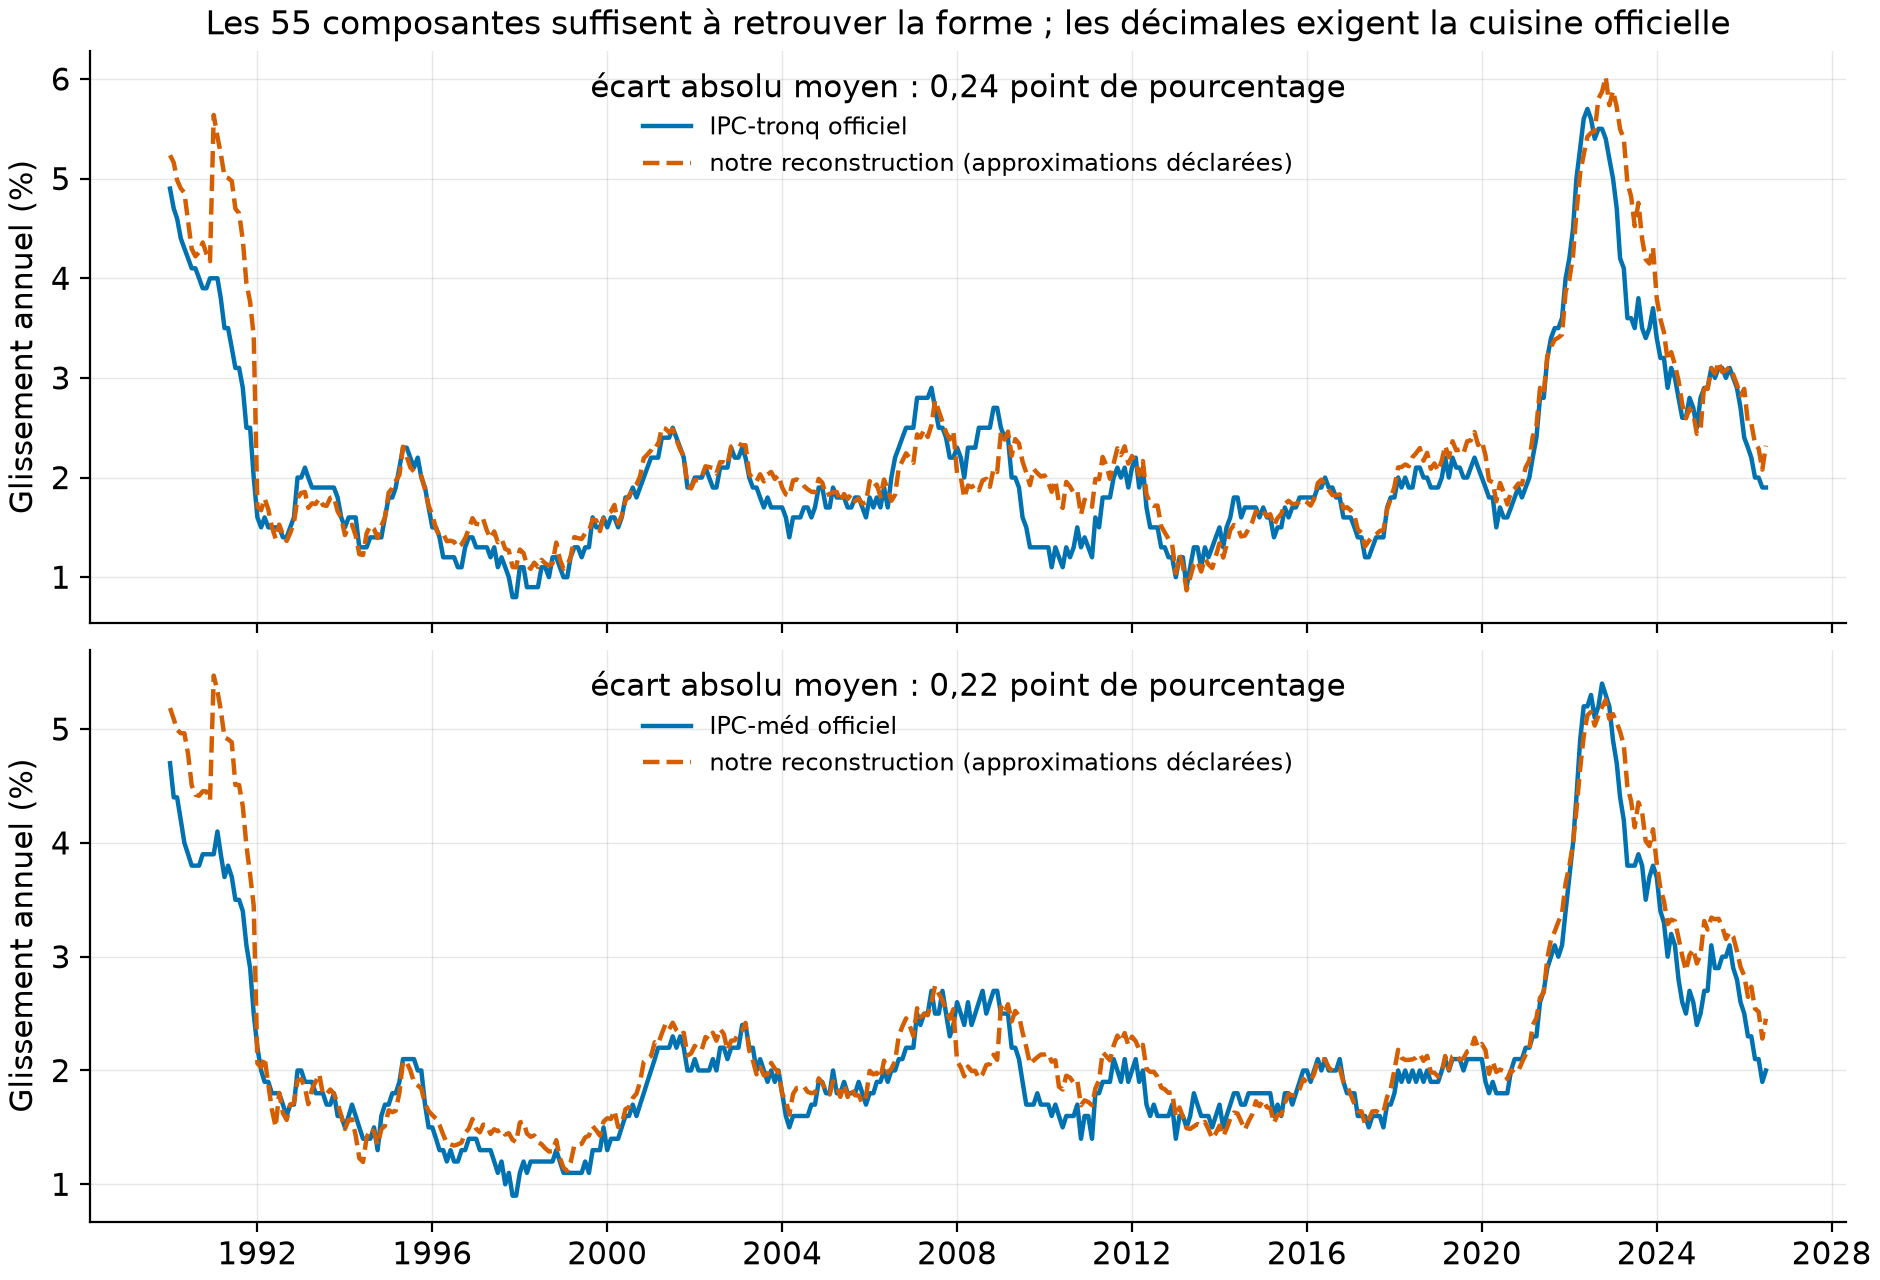
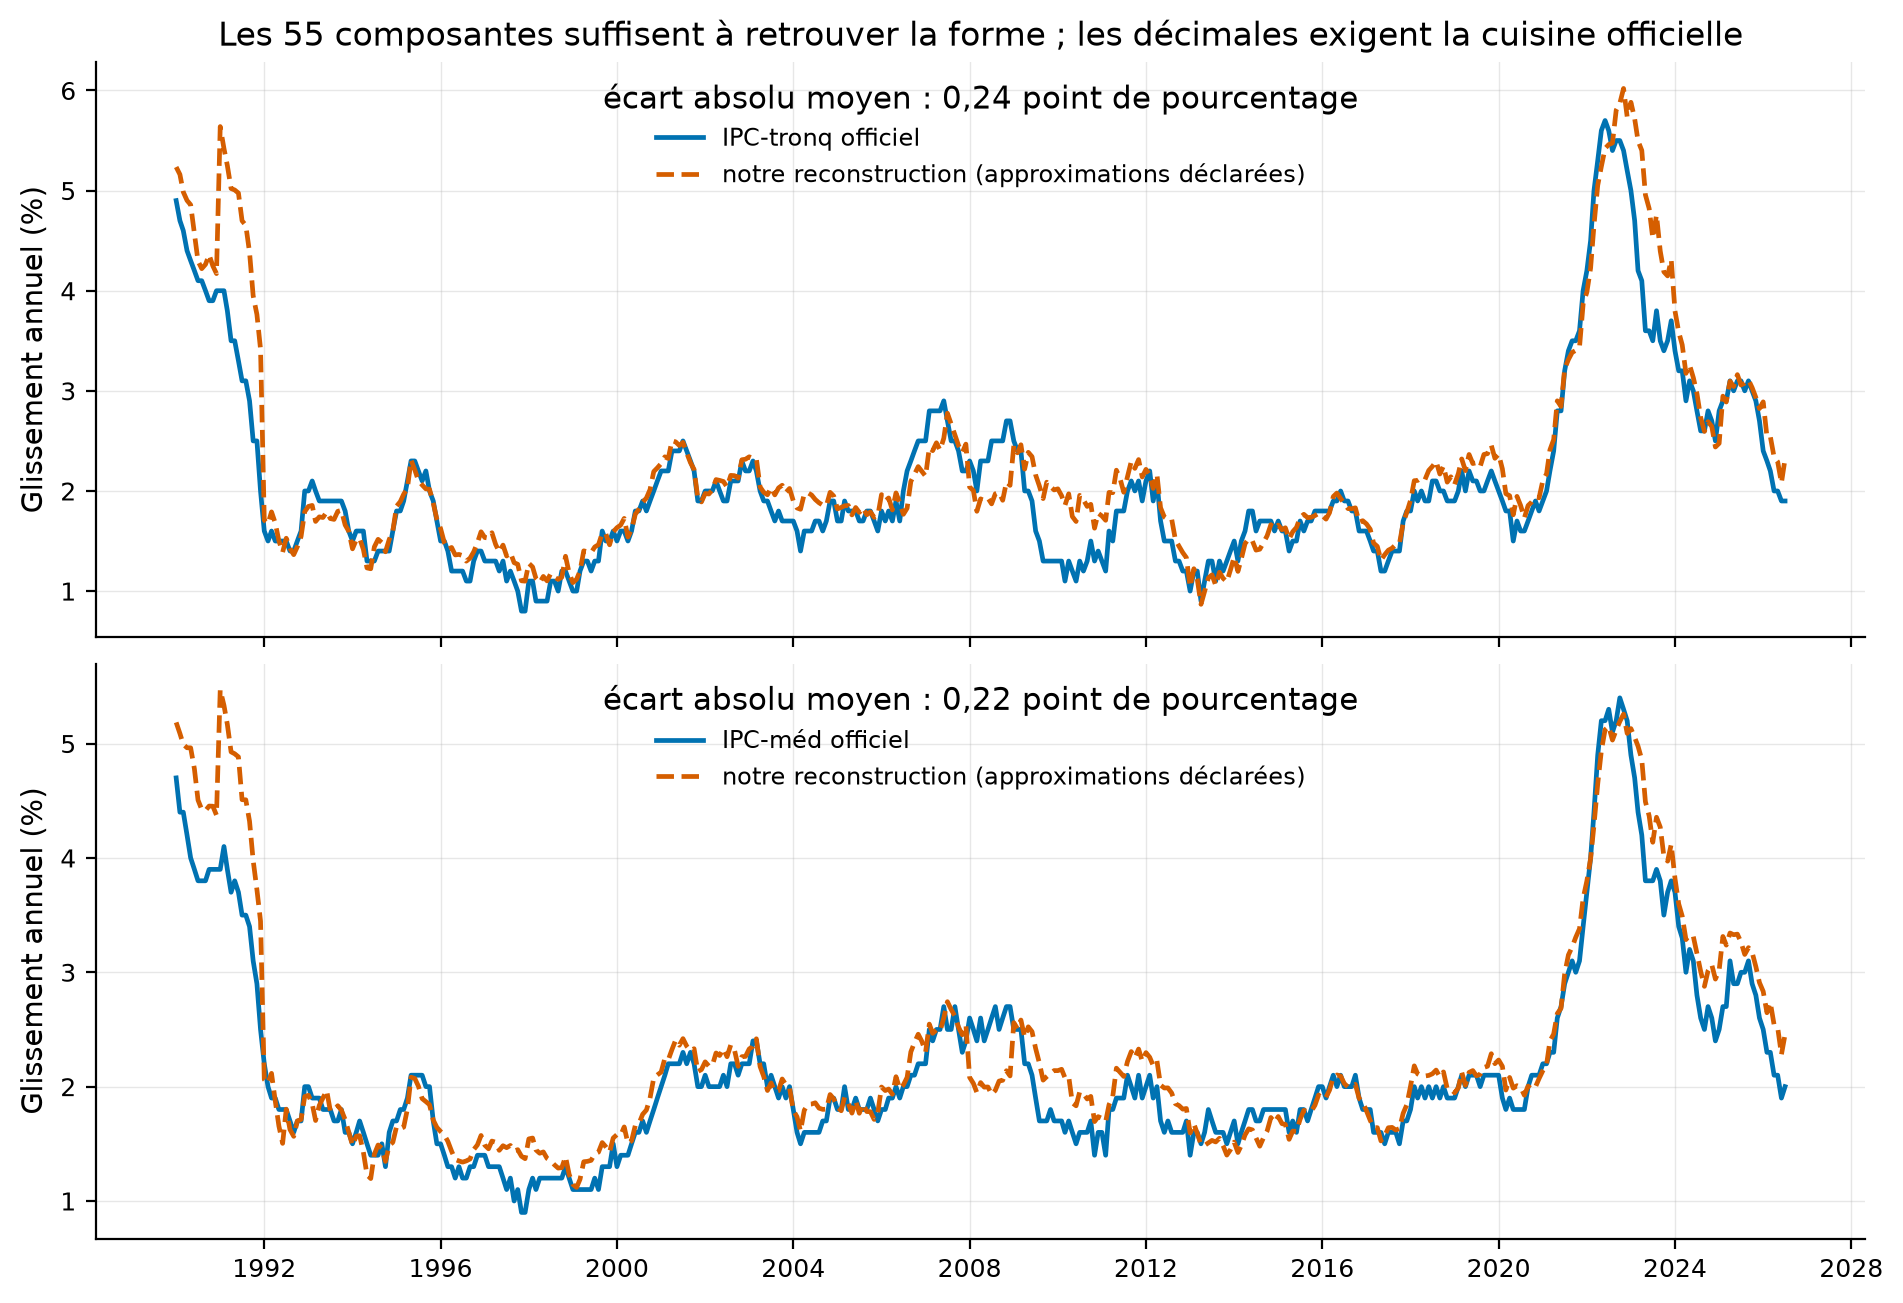
Consommer la feuille de style partagée au lieu de recopier la palette
La palette Okabe-Ito et les réglages de figure étaient recopiés à l'identique dans
chaque dépôt du portefeuille. Une correction de graisse de trait devait donc être faite
une fois par dépôt, et ne l'était jamais.

Le module de figures appelle désormais gv-fintools 0.2.1. Le nom public de la fonction
de réglage ne change pas, si bien qu'aucun appelant n'est touché. Les figures sont
régénérées avec le nouveau style, qui ajoute l'embarquement des polices dans les PDF :
le texte d'une figure reste sélectionnable et cherchable dans le rapport.

diff --git a/src/infc/figures.py b/src/infc/figures.py
@@ -7,23 +7,16 @@ from pathlib import Path
 import matplotlib.pyplot as plt
 import numpy as np
 import pandas as pd
+from gvf.style import OKABE_ITO, appliquer, formateur  # noqa: F401
 
-OKABE_ITO = ["#0072B2", "#E69F00", "#009E73", "#D55E00", "#CC79A7", "#56B4E9", "#F0E442", "#000000"]
+# La palette et les réglages viennent de la couche partagée du portefeuille : les mêmes
+# couleurs et la même virgule décimale dans tous les dépôts, corrigées à un seul endroit.
 
 
 def use_style():
-    import matplotlib as mpl
-    from cycler import cycler
-    from matplotlib.ticker import FuncFormatter
-
-    mpl.rcParams.update({
-        "figure.dpi": 200, "savefig.dpi": 200, "figure.constrained_layout.use": True,
-        "font.size": 11, "axes.titlesize": 12, "axes.prop_cycle": cycler(color=OKABE_ITO),
-        "axes.spines.top": False, "axes.spines.right": False,
-        "axes.grid": True, "grid.alpha": 0.3, "grid.linewidth": 0.5,
-        "legend.frameon": False, "lines.linewidth": 1.6,
-    })
-    return FuncFormatter(lambda v, _: f"{v:g}".replace(".", ","))
+    """Les réglages communs, puis le formateur d'axe en français."""
+    appliquer()
+    return formateur()
 
 
 def fig_choc(officiel: pd.DataFrame, headline: pd.Series, dest: Path) -> None:
